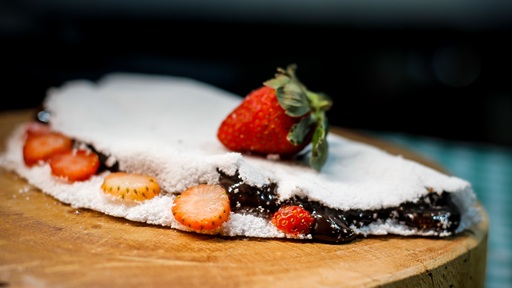
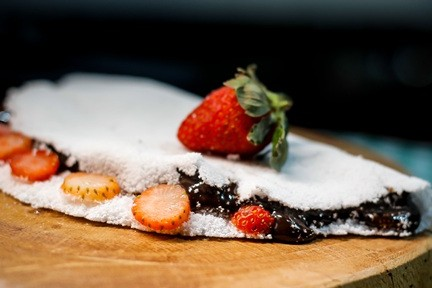
Adicionado mais imagens de produtos

diff --git a/README.md b/README.md
@@ -9,3 +9,21 @@ https://free-images.com/md/9b0e/restaurant_gastronomy_koblenz_human.jpg
 https://free-images.com/md/9865/ponferrada_calle_gil_y_0.jpg
 https://free-images.com/md/4dc8/restaurant_seats_table_chairs.jpg
 https://free-images.com/display/restaurant_cafe_einstein_restaurant.html
+https://br.pinterest.com/pin/14144186325322461/
+https://br.pinterest.com/pin/1102959765017651837/
+https://receitatodahora.com.br/farofa-de-cuscuz-de-frango-deliciosa-e-facil-de-fazer-voce-nunca-comeu-nada-igual/
+https://docestemperos.com/receitas-faceis/cuscuz-nordestino-completo-com-carne-um-prato-saboroso-e-facil-de-fazer/
+https://youtu.be/9TVEmlFxZGA
+https://receitatodahora.com.br/escondidinho-de-frango-com-pure-de-batatas-cremoso-uma-delicia-para-o-almoco-de-domingo/
+https://www.instagram.com/p/DFBL-YYyX3M/
+https://content.paodeacucar.com/prazer-de-comer-e-beber/acompanhamento-para-churrasco/attachment/grilledcoalhocheeseforbarbecueonskeweronwoodenboard
+https://panelinha.com.br/receita/mandioca-frita
+https://minhasreceitinhas.com.br/receita/pasteis-de-queijo-coalho/
+https://www.saboresajinomoto.com.br/receita/pudim-de-tapioca-2
+https://blog.praticabr.com/cartola-receita-patrimonio-de-pernambuco
+https://receitatodahora.com.br/cocada-cremosa-muito-gostosa-que-vai-so-3-ingredientes-simples-e-baratos/
+https://guiadacozinha.com.br/receitas/suco-de-caja/
+https://receitassaudavel.com.br/suco-de-umbu-o-segredo-refrescante-do-nordeste-para-o-verao/
+https://tanamesa.com/receita/suco-de-graviola-paula-rizkallah/
+https://altoastral.joaobidu.com.br/receitas/agua-de-coco-beneficios-bebida-saude.phtml
+https://www.sbp.com.br/sbp-conclama-pediatras-a-entrarem-na-luta-contra-a-venda-de-refrigerantes-em-escolas/
